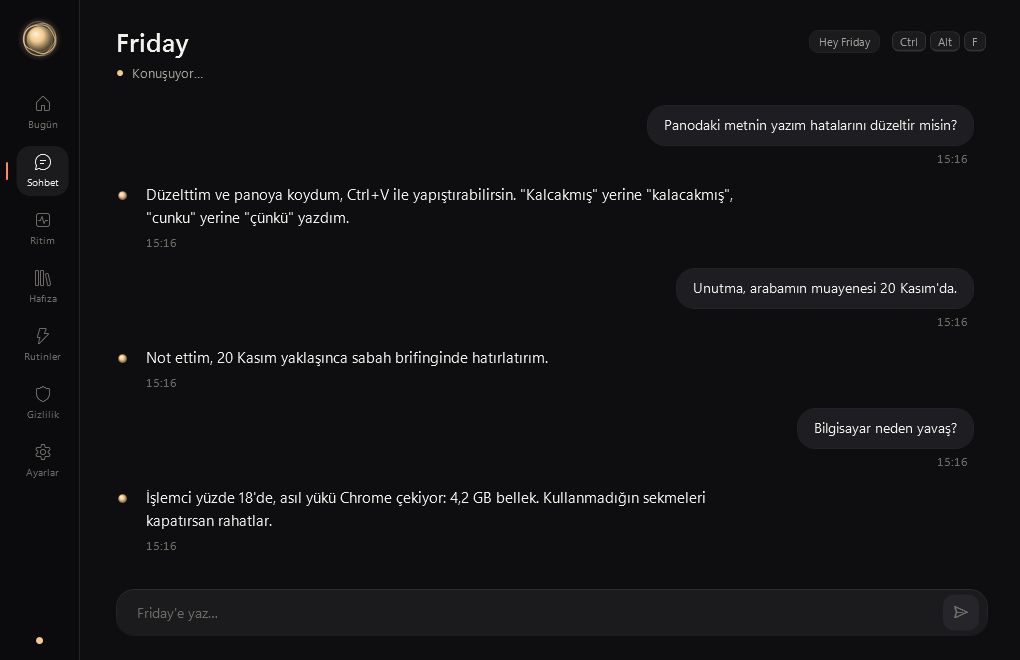
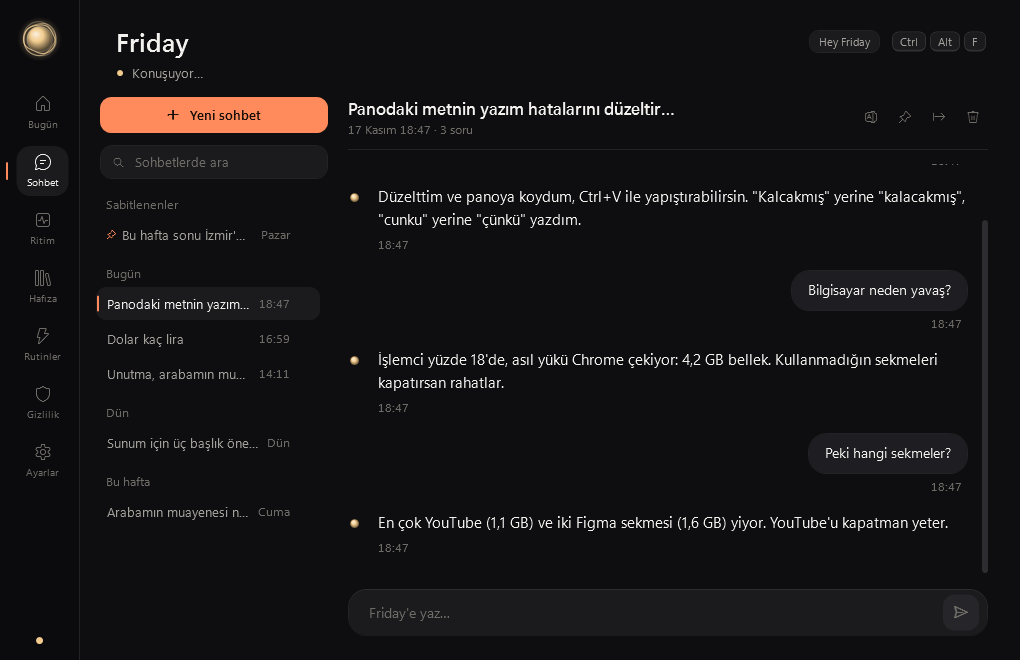
Document chats, the quick command box and the routine editor

diff --git a/README.md b/README.md
@@ -9,6 +9,8 @@ Friday, Windows için Türkçe konuşan kişisel bir sesli asistan. **"Hey Frida
 | | |
 |---|---|
 | **"Hey Friday"** | Elin klavyede değilken seslenmen yeterli. Model Friday için bu bilgisayarda eğitildi ve işlemcide çalışır; ses kaydedilmez. Türkçe aksanla ("Hey Fraydey") da tanır. Ayarlardan kapatılır. |
+| **Sohbetler** | Her konuşma ayrı bir sohbet olarak saklanır; başlığı ilk sorudan kendiliğinden çıkar. Sol listede Bugün, Dün, Bu hafta diye gruplanır; sabitle, yeniden adlandır, Markdown olarak kaydet ya da sil. Bütün sohbetlerde arama yapılır ("istanbul" yazınca "İstanbul" geçenler de bulunur). Eski bir sohbeti açıp kaldığı yerden sürdürebilirsin; Friday o sohbetin bağlamıyla devam eder. "Yeni sohbet", "konuyu değiştirelim" ya da "sohbeti temizle" demen de yeter. Bir süre konuşmazsan (varsayılan 30 dk) sonraki soru kendiliğinden yeni bir sohbet olur. |
+| **Hızlı komut kutusu** | **Ctrl+Alt+Space** ile her yerden küçük bir kutu açılır (Raycast ya da Spotlight gibi): yaz, Enter'a bas, kutu kapanır, cevap köşede görünür ve okunur. Yazdıkça rutinlerin, son sorduğun şeyler ve hazır komutlar süzülür; ok tuşlarıyla seç, Tab ile tamamla. |
 | **Bugün ekranı** | Panel açılınca günün saatine göre selam, hava, yaklaşan hatırlatmalar ve tarihler, son notlar ve ritim özeti. İlk açılışta kısa bir tanışma: adın, şehrin, istersen başka bir yapay zekânın hafızası. |
 | **Hatırlatıcı** | "Yarın 9'da doktoru hatırlat", "akşam 8'de ilacımı hatırlat", "pazartesi 10:30'da toplantıyı hatırlat". Friday kapansa da kaybolmaz; kapalıyken kaçırılanları açılışta söyler. "Hatırlatmalarım neler?", "doktor hatırlatmasını iptal et". |
 | **Sesli notlar** | "Not al: süt ve ekmek", "notlarımı oku". Notlar D:\Friday\data\notes.md'de, Not Defteri'yle de açılır. |
@@ -16,17 +18,17 @@ Friday, Windows için Türkçe konuşan kişisel bir sesli asistan. **"Hey Frida
 | **Gün sayacı** | "Yılbaşına kaç gün kaldı", "29 Ekim'e kaç gün var", "doğum günüme kaç gün kaldı" (hafızadan bulur). |
 | **Ekranını görür** | "Bu hata ne?", "Ekranımda ne var?" deyince aktif pencerenin görüntüsünü alır ve Gemma 4'ün görme yeteneğiyle bilgisayarında yorumlar. Görüntü diske yazılmaz. |
 | **Pano büyüsü** | Bir metni kopyala, "özetle", "İngilizceye çevir", "yazımını düzelt" ya da "resmileştir" de. Sonuç panoya geri konur; Ctrl+V ile yapıştırırsın. |
-| **Ritim koçu** | Kaç dakikadır aralıksız çalıştığını bilir; yazarken değil bir duraksamada, tam ekran oyun ya da film açık değilken mola önerir. Her seferinde başka bir öneri gelir: 20 saniye sayarak göz molası, rehberli esneme, su (içtiklerini sayar), uzun oturumda yürüyüş, gece geç saatte günü kapatma. "Nefes egzersizi" deyince seni sesli yönlendirir, "25 dakika odaklanacağım" deyince odak oturumu açar. |
+| **Ritim koçu** | Ritim sayfasında büyük bir halka o anki durumu saniye saniye gösterir: "Çalışıyorsun · 32:10 aralıksız · molaya 18 dakika var", "Odaktasın · 11:58 kaldı", "Moladasın · 02:30 kaldı". Altında günün özeti, günün akışı, son 7 gün ve nasıl çalıştığının kısa açıklaması var. Kaç dakikadır aralıksız çalıştığını bilir; yazarken değil bir duraksamada, tam ekran oyun ya da film açık değilken mola önerir. Her seferinde başka bir öneri gelir: 20 saniye sayarak göz molası, rehberli esneme, su (içtiklerini sayar), uzun oturumda yürüyüş, gece geç saatte günü kapatma. "Nefes egzersizi" deyince seni sesli yönlendirir, "25 dakika odaklanacağım" deyince odak oturumu açar. |
 | **Kaldığın yer** | Moladan dönünce "Tekrar hoş geldin, 6 dakika mola verdin. Kaldığın yer: Visual Studio Code, FridayAssistant.cs." der. "Nerede kalmıştım?" diye de sorabilirsin. |
 | **Sabah karşılaması** | Günün ilk oturuşunda havayı ve yaklaşan tarihleri kısaca söyler. |
 | **Kalıcı hafıza** | "Unutma, arabamın muayenesi 20 Kasım'da." Haftalar sonra da hatırlar; tarihli bilgilerde "3 gün kaldı" diye sayar ve sabah söyler. |
 | **Hafızanı taşı** | ChatGPT'nin, Claude'un ya da Gemini'nin hafıza listesini .txt, .md ya da .json olarak içe aktar (ya da yapıştır); önizlemede seç, Friday zaten bildiklerini işaretler. Tersine, Friday'in hafızasını tek tıkla başka bir yapay zekâya yapıştırılacak bir mesaja ya da Markdown dosyasına çevir. |
 | **Dosya radarı** | "Dün indirdiğim PDF'i bul", "içinde fatura geçen Excel'i aç". Windows Arama dizinini kullanır. |
 | **Gizlilik defteri** | Mikrofonun ne zaman ve ne kadar açık kaldığı, neyin bilgisayarda kaldığı ve neyin dışarı çıktığı zaman çizelgesinde görünür. "Seni dinlemiyorum" iddiası denetlenebilir. |
-| **Rutinler** | "Çalışma modunu aç" deyince uygulamalar ve siteler açılır. "Günaydın" deyince tarih, hava ve yaklaşan hatırlatmalar okunur. "Toplantı modu" 45 dakikalık odak açar, "iyi geceler" günün özetini söyler. |
+| **Rutinler** | "Çalışma modunu aç" deyince uygulamalar ve siteler açılır. "Günaydın" deyince tarih, hava ve yaklaşan hatırlatmalar okunur. "Toplantı modu" 45 dakikalık odak açar, "iyi geceler" günün özetini söyler. Rutinler sayfasından yeni rutin ekle, düzenle, adımlarını sırala ya da sil; ya da yedi hazır şablondan (sabah, odak modu, kod zamanı, oyun modu, film gecesi, çay molası, gün sonu) başla. Adımlar: uygulama, site, arama, medya, ses seviyesi, söyle, günün özeti, ritim, hatırlatma, bekle, LinguaFlow. |
 | **"Bilgisayar neden yavaş?"** | İşlemci, bellek, disk ve ekran kartını ölçer; en çok kaynak yiyen uygulamaları söyler. |
 | **"Şu an ne çalıyor?"** | Spotify ya da tarayıcıdaki YouTube'da çalan şarkıyı Windows'tan okur; müziği durdurur ya da geçer. "Sesi yüzde 30 yap" ile sesi tam ayarlar. |
-| **"Bugün ne konuştuk?"** | Günlük sohbet geçmişini bilgisayarında tutar ve özetler. |
+| **"Bugün ne konuştuk?"** | Sohbetlerini bilgisayarında tutar ve özetler. "Geçen hafta kampanya hakkında ne konuşmuştuk?" diye sorarsan bütün sohbetlerde arar. |
 | **LinguaFlow bağlantısı** | "Bu videoyu çevir" deyince [LinguaFlow](https://github.com/kursatcnk/LinguaFlow) açılır ve canlı çeviri başlar. |
 | **Devam sorusu** | Cevaptan sonra mikrofon 4 sn daha açık kalır; tuşa basmadan "peki yarın?" diye sorabilirsin. Ayarlardan kapatılır. |
 | **Kesme** | Friday konuşurken kısayola basarsan ya da "Hey Friday" dersen susar ve seni dinlemeye başlar. |
@@ -170,7 +172,7 @@ Gereksinimler: Windows 10/11 x64, [.NET 10 SDK](https://dotnet.microsoft.com/dow
 | `D:\Friday\tools` | Ollama ve Piper (taşınabilir) |
 | `D:\Friday\models` | Gemma 4 (~6 GB), Türkçe Piper sesi, "Hey Friday" modelleri (`wakeword\`) |
 | `D:\LinguaFlowModels` | Whisper, LinguaFlow ile paylaşılır (yoksa `D:\Friday\models\whisper`) |
-| `D:\Friday\data` | `settings.json`, `memory.json`, gizlilik defteri (`ledger\`), sohbet geçmişi (`history\`), hata günlüğü (`logs\`, 14 gün) |
+| `D:\Friday\data` | `settings.json`, `memory.json`, gizlilik defteri (`ledger\`), sohbetler (`chats\`, eski sürümün `history\` klasörü ilk açılışta buraya aktarılır), dışa aktarılanlar (`exports\`), hata günlüğü (`logs\`, 14 gün) |
 | `D:\CodexCache\Friday` | .NET SDK ev klasörü, NuGet paketleri, NuGet indirme önbelleği ve derlemenin geçici dosyaları |
 
 ## Kullanım
@@ -182,20 +184,26 @@ Gereksinimler: Windows 10/11 x64, [.NET 10 SDK](https://dotnet.microsoft.com/dow
 5. Beklenmeyen bir hata Friday'i kapatmaz; ayrıntısı `D:\Friday\data\logs` altındaki günlüğe yazılır. Ollama kapanırsa bir sonraki soruda kendiliğinden yeniden başlatılır.
 
 ![Bugün](docs/images/panel-today.png)
-![Sohbet](docs/images/panel-chat.png)
+![Sohbetler](docs/images/panel-chat.png)
 ![Ritim](docs/images/panel-rhythm.png)
+![Rutin düzenleyici](docs/images/panel-routines-edit.png)
+![Ayarlar](docs/images/panel-settings.png)
 ![Hafıza](docs/images/panel-memory.png)
 ![Gizlilik defteri](docs/images/panel-privacy.png)
 
 ## Ayarlar
 
-Panelin **Ayarlar** bölümünden ya da `D:\Friday\data\settings.json` dosyasından (yeni sürümde eklenen ayarlar dosyaya kendiliğinden yazılır):
+Panelin **Ayarlar** bölümünden (kısayollar, Windows açılışında başlatma, uyandırma, dinleme sabrı, ritim, kişilik, yeni sohbet süresi, ses motoru ve Piper sesi, konuşma hızı, ekran kartını boşaltma süresi, verileri silme, güncelleme denetimi) ya da `D:\Friday\data\settings.json` dosyasından (yeni sürümde eklenen ayarlar dosyaya kendiliğinden yazılır):
 
 | Ayar | Varsayılan | Açıklama |
 |---|---|---|
 | `UserName` | boş | Sana nasıl hitap edeceği |
 | `Personality` | `esprili` | `esprili`, `sade` ya da `resmi` |
-| `Hotkey` | `Ctrl+Alt+F` | `Ctrl`/`Alt`/`Shift`/`Win` + tuş |
+| `Hotkey` | `Ctrl+Alt+F` | `Ctrl`/`Alt`/`Shift`/`Win` + tuş; panelden değiştirince hemen geçerli olur |
+| `QuickAskHotkey` | `Ctrl+Alt+Space` | Hızlı komut kutusu; boş bırakılırsa kapalı |
+| `StartWithWindows` | `false` | Windows açılınca tepside sessizce başlar (yalnızca kullanıcı kayıt defterindeki Run satırı) |
+| `ConversationMemoryMinutes` | `30` | Bu kadar konuşulmazsa sonraki soru yeni bir sohbet olur |
+| `SpeechSpeed` / `SilenceMilliseconds` | `1.0` / `1200` | Konuşma hızı; sustuktan sonra kaydın bitmesi için beklenen süre |
 | `WakeWord` / `WakeWordThreshold` | `hey_friday` / `0.50` | Uyandırma kelimesi; boş bırakılırsa kapalı. Yanlışlıkla uyanıyorsa eşiği artır, duymuyorsa azalt |
 | `FollowUpSeconds` | `4` | Cevaptan sonra devam sorusu bekleme süresi; `0` kapatır |
 | `SpeechEngine` | `piper` | `piper`, `xtts` ya da `azure` |
@@ -208,9 +216,9 @@ Panelin **Ayarlar** bölümünden ya da `D:\Friday\data\settings.json` dosyasın
 | `MorningGreeting` | `true` | Günün ilk oturuşunda kısa karşılama |
 | `GpuIdleMinutes` | `2` | Bu kadar boşta kalınca dil modeli, Whisper ve Piper kapanır (GPU ve RAM boşalır) |
 | `City` | `İstanbul` | Hava durumunda şehir söylenmezse |
-| `KeepHistory` | `true` | Günlük sohbet geçmişi |
+| `KeepHistory` | `true` | Sohbetleri `D:\Friday\data\chats` altında sakla |
 | `LinguaFlowPath` | LinguaFlow yayını | "Bu videoyu çevir" komutu |
-| `Routines` | çalışma modu, günaydın, mola | Adımlar: `uygulama:`, `site:`, `ara:`, `medya:`, `soyle:`, `ozet`, `linguaflow` |
+| `Routines` | çalışma modu, günaydın, mola, toplantı modu, iyi geceler | Panelden düzenlenir. Adımlar: `uygulama:`, `site:`, `ara:`, `medya:`, `ses:30`, `soyle:`, `ozet`, `ritim:odak 25`, `hatirlat:5 dakika sonra\|çay`, `bekle:3`, `linguaflow` |
 | `Apps` | not defteri, hesap makinesi… | Sesli ad → komut; olmayanlar Başlat menüsünde aranır |
 
 ## Gizlilik
@@ -218,15 +226,17 @@ Panelin **Ayarlar** bölümünden ya da `D:\Friday\data\settings.json` dosyasın
 - "Hey Friday" açıkken mikrofon sürekli açıktır ama ses 80 ms'lik parçalar halinde yalnızca bellekte puanlanıp atılır. `WakeWord` boşsa mikrofon yalnızca kısayoldan sonra, bir soru boyunca açılır. Sorunun sesi de bellekte işlenir, diske yazılmaz, hiçbir yere gönderilmez.
 - Konuşma tanıma, dil modeli, ekran yorumlama ve pano işlemleri tamamen yereldir.
 - Ritim koçu yalnızca Windows'un tuttuğu "son klavye/fare kullanımı" zamanını okur; tuşlar, ekran ve pencere içerikleri okunmaz. Moladan önce yalnızca öndeki pencerenin başlığı hatırlanır. Günlük süreler `D:\Friday\data\rhythm` altında, 90 gün tutulur.
-- Dışarı yalnızca şunlar çıkar ve hepsi gizlilik defterine yazılır: Azure açıksa okunacak cevap metni; hava durumu sorulursa şehir adı (Open-Meteo); açmasını istediğin siteler ve aramalar (tarayıcın üzerinden).
+- Dışarı yalnızca şunlar çıkar ve hepsi gizlilik defterine yazılır: Azure açıksa okunacak cevap metni; hava durumu sorulursa şehir adı (Open-Meteo); açmasını istediğin siteler ve aramalar (tarayıcın üzerinden); "Güncellemeleri denetle"ye basarsan GitHub'daki son sürüm numarası sorgusu.
+- Sohbetler, hafıza ve hatırlatmalar Ayarlar › Verilerin bölümünden tek tıkla (onayla) kalıcı olarak silinir.
 
 ## Geliştirme
 
 ```
 src/Friday.Core            Saf mantık: konuşma sonu algılama, hızlı yol kalıpları, Türkçe zaman ve sayı, hesap,
-                           hafıza ve aktarımı, hatırlatma ve notlar, ritim, gizlilik defteri, talimatlar
+                           sohbetler, hafıza ve aktarımı, hatırlatma ve notlar, ritim, rutinler, gizlilik defteri, talimatlar
 src/Friday.Infrastructure  Mikrofon, uyandırma kelimesi, Whisper, Ollama, Azure + Piper ses, 29 araç, ritim koçu, asistan döngüsü
-src/Friday.Desktop         Bugün ekranı, cam kapsül, ses küresi, kontrol paneli, genel kısayol, sistem tepsisi
+src/Friday.Desktop         Bugün ekranı, sohbetler, ritim halkası, rutin düzenleyici, ayarlar, hızlı komut kutusu, cam kapsül,
+                           ses küresi, genel kısayollar, sistem tepsisi
 tests/Friday.UnitTests     Birim testleri
 training/                  "Hey Friday" uyandırma kelimesi eğitimi (train-wakeword.ps1)
 models/wakeword            Eğitilmiş "Hey Friday" modeli
